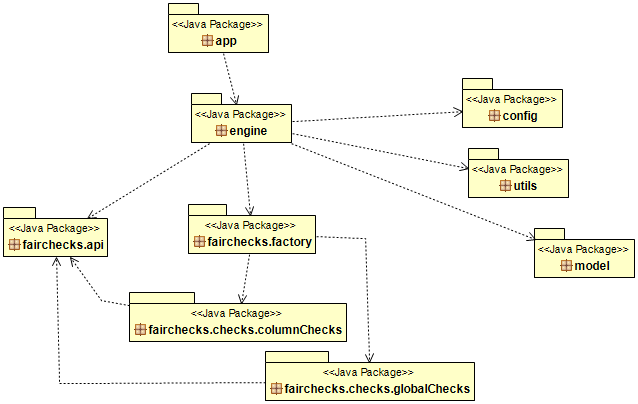
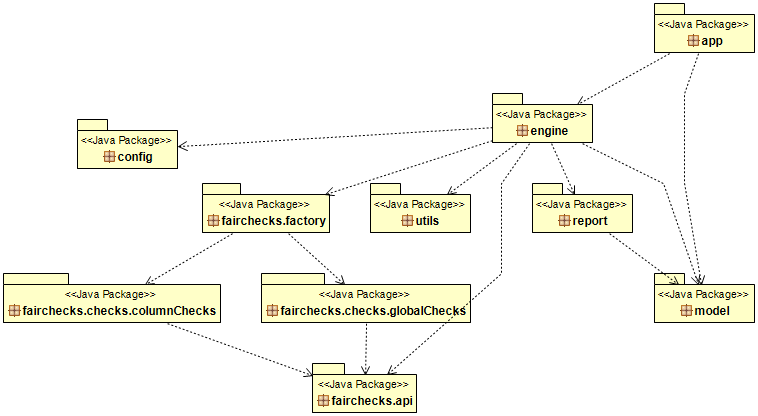
small refactorings, pending API changes!!

diff --git a/src/main/java/engine/DataPublisherFacade.java b/src/main/java/engine/DataPublisherFacade.java
@@ -5,27 +5,26 @@ import model.FairCheckResult;
 import report.FairCheckReportGenerator;
 import utils.RegistrationResponse;
 
-import java.util.LinkedHashMap;
 import java.util.List;
 import java.util.Map;
 
 public class DataPublisherFacade implements IDataPublisherFacade{
 	
-	private DatasetRegistrationController datasetController = new DatasetRegistrationController();
+	private DatasetRegistrationController datasetRegistrationController = new DatasetRegistrationController();
 	private GlobalFairCheckService fairCheckService = new GlobalFairCheckService();
 	private ColumnFairCheckService columnCheckService = new ColumnFairCheckService();
 	
+	@Override
 	public RegistrationResponse registerDataset(String path, String alias, boolean hasHeader) {
-		return datasetController.registerDataset(path, alias, hasHeader);
+		return datasetRegistrationController.registerDataset(path, alias, hasHeader);
 	}
 	
 	@Override
-	public Map<String, Boolean> executeGlobalChecks(String datasetAlias) {
-	    DatasetProfile profile = datasetController.getProfile(datasetAlias);
+	public Map<String, Boolean> executeGlobalChecks(String datasetAlias) throws IllegalStateException {
+	    DatasetProfile profile = datasetRegistrationController.getProfile(datasetAlias);
 
 	    if (profile == null) {
-	        System.out.println("Error: Dataset not found.");
-	        return new LinkedHashMap<>();
+	    	throw new IllegalStateException("Error: Dataset has not been registered");
 	    }
 
 	    Map<String, Boolean> results = fairCheckService.executeGlobalChecks(profile.getDataset());
@@ -34,11 +33,10 @@ public class DataPublisherFacade implements IDataPublisherFacade{
 	}
 	
 	@Override
-    public Map<String, Map<String, List<FairCheckResult>>> executeColumnChecks(String datasetAlias) {
-        DatasetProfile profile = datasetController.getProfile(datasetAlias);
+    public Map<String, Map<String, List<FairCheckResult>>> executeColumnChecks(String datasetAlias) throws IllegalStateException {
+        DatasetProfile profile = datasetRegistrationController.getProfile(datasetAlias);
         if (profile == null) {
-            System.out.println("Dataset not found: " + datasetAlias);
-            return null;
+        	throw new IllegalStateException("Error: Dataset has not been registered");
         }
         return columnCheckService.executeColumnChecks(profile);
     }
@@ -55,7 +53,7 @@ public class DataPublisherFacade implements IDataPublisherFacade{
 
 	
 	public DatasetProfile getProfile(String alias) {
-		return datasetController.getProfile(alias);
+		return datasetRegistrationController.getProfile(alias);
 	}
 
 }

diff --git a/src/main/java/engine/IDataPublisherFacade.java b/src/main/java/engine/IDataPublisherFacade.java
@@ -20,11 +20,49 @@ import utils.RegistrationResponse;
  */
 public interface IDataPublisherFacade {
 	
+	/**
+	 * 
+	 * @param path
+	 * @param alias
+	 * @param hasHeader
+	 * @return
+	 */
 	public RegistrationResponse registerDataset(String path, String alias, boolean hasHeader);
-	public Map<String, Boolean> executeGlobalChecks(String datasetAlias);
-	public Map<String, Map<String, List<FairCheckResult>>> executeColumnChecks(String datasetAlias);
-	void generateGlobalReport(String datasetAlias, Map<String, Boolean> globalResults, String outputPath);
-	void generateColumnReport(String datasetAlias, Map<String, Map<String, List<FairCheckResult>>> columnResults, String outputPath);
+	
+	/**
+	 * 
+	 * @param datasetAlias
+	 * @return
+	 */
+	public Map<String, Boolean> executeGlobalChecks(String datasetAlias) throws IllegalStateException;
+	
+	/**
+	 * 
+	 * @param datasetAlias
+	 * @return
+	 */
+	public Map<String, Map<String, List<FairCheckResult>>> executeColumnChecks(String datasetAlias) throws IllegalStateException;
+	
+	/**
+	 * 
+	 * @param datasetAlias
+	 * @param globalResults
+	 * @param outputPath
+	 */
+	public void generateGlobalReport(String datasetAlias, Map<String, Boolean> globalResults, String outputPath);
+	
+	/**
+	 * 
+	 * @param datasetAlias
+	 * @param columnResults
+	 * @param outputPath
+	 */
+	public void generateColumnReport(String datasetAlias, Map<String, Map<String, List<FairCheckResult>>> columnResults, String outputPath);
 
+	/**
+	 * 
+	 * @param alias
+	 * @return
+	 */
 	public DatasetProfile getProfile(String alias);
 }

diff --git a/src/test/java/engine/FacadeTests.java b/src/test/java/engine/FacadeTests.java
@@ -127,7 +127,7 @@ public class FacadeTests {
     
     @Test
     public void generateGlobalReportTest() throws Exception {
-    	String globalReportPath = "src/test/resources/reports/ReportTest.txt";
+    	String globalReportPath = "src/test/resources/reports/GlobalReportTest.txt";
     	Map<String, Boolean> globalResults = facade.executeGlobalChecks("frame1");
 
         facade.generateGlobalReport("frame1", globalResults, globalReportPath);
@@ -139,7 +139,7 @@ public class FacadeTests {
     
     @Test
     public void generateColumnReportTest() throws Exception {
-    	String columnReportPath = "src/test/resources/reports/ReportTest.txt";
+    	String columnReportPath = "src/test/resources/reports/ColumnReportTest.txt";
         Map<String, Map<String, List<FairCheckResult>>> columnResults = facade.executeColumnChecks("frame1");
 
         facade.generateColumnReport("frame1", columnResults, columnReportPath);

diff --git a/src/main/java/app/Main.java b/src/main/java/app/Main.java
@@ -17,9 +17,9 @@ public class Main {
         Map<String, Boolean> globalResults = facade.executeGlobalChecks("myDataset");
         Map<String, Map<String, List<FairCheckResult>>> columnResults = facade.executeColumnChecks("myDataset");
         
-        String outputPath = "src/main/resources/reports/FAIR_Report.txt";
+        String outputFolder = "src/main/resources/reports/";
 
-        facade.generateGlobalReport("myDataset", globalResults, outputPath);
-        facade.generateColumnReport("myDataset", columnResults, outputPath);
+        facade.generateGlobalReport("myDataset", globalResults, outputFolder + "FAIR_Report.txt");
+        facade.generateColumnReport("myDataset", columnResults, outputFolder + "FAIR_Report.txt");
     }
 }

diff --git a/src/main/java/fairchecks/api/IAccessibilityCheck.java b/src/main/java/fairchecks/api/IAccessibilityCheck.java
@@ -17,9 +17,9 @@ import org.apache.spark.sql.types.DataType;
  * @see fairchecks.checks
  */
 public interface IAccessibilityCheck {
-	String getCheckId();
-	String getCheckDescription();
-    boolean executeCheck(Dataset<Row> dataset);
-    default List<String> getInvalidRows() { return null; }
-    default boolean isApplicable(DataType columnType) { return true; }
+	public String getCheckId();
+	public String getCheckDescription();
+    public boolean executeCheck(Dataset<Row> dataset);
+    public default List<String> getInvalidRows() { return null; }
+    public default boolean isApplicable(DataType columnType) { return true; }
 }

diff --git a/src/main/java/fairchecks/api/IGenericCheck.java b/src/main/java/fairchecks/api/IGenericCheck.java
@@ -1,0 +1,13 @@
+package fairchecks.api;
+
+import java.util.List;
+
+import org.apache.spark.sql.Dataset;
+import org.apache.spark.sql.Row;
+
+public interface IGenericCheck {
+		public String getCheckId();
+		public String getCheckDescription();
+	    public boolean executeCheck(Dataset<Row> dataset);
+	    public default List<String> getInvalidRows() { return null; }
+}

diff --git a/src/main/java/fairchecks/api/IGenericCheckWithInvalidRows.java b/src/main/java/fairchecks/api/IGenericCheckWithInvalidRows.java
@@ -1,0 +1,8 @@
+package fairchecks.api;
+
+import java.util.List;
+
+public interface IGenericCheckWithInvalidRows extends IGenericCheck{
+    public default List<String> getInvalidRows() { return null; }
+
+}
